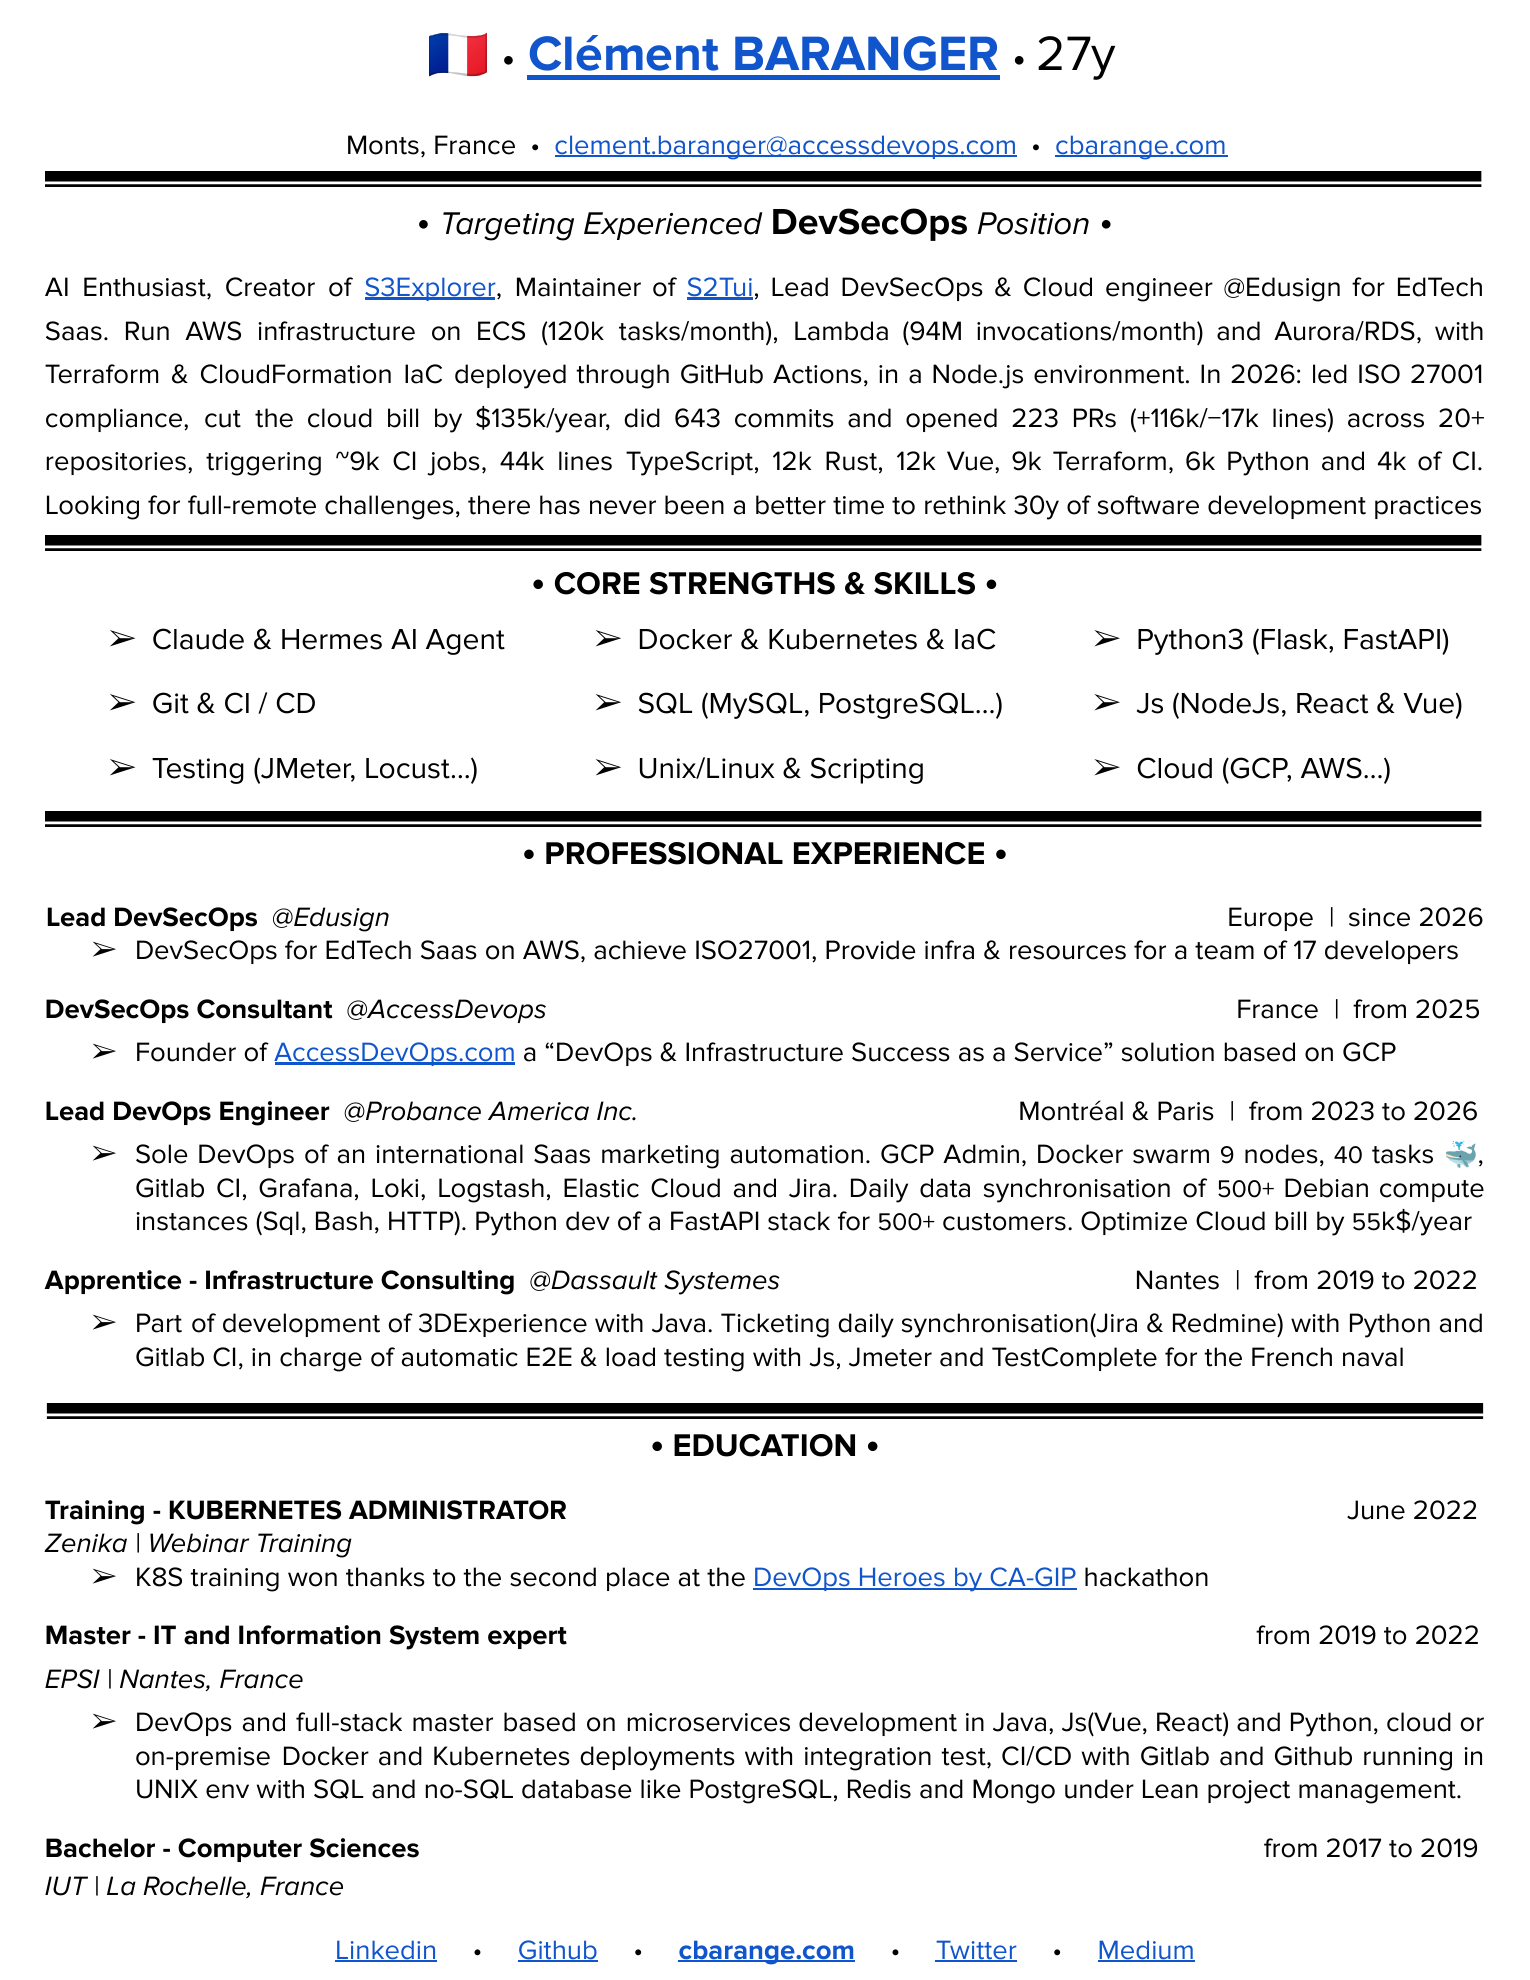
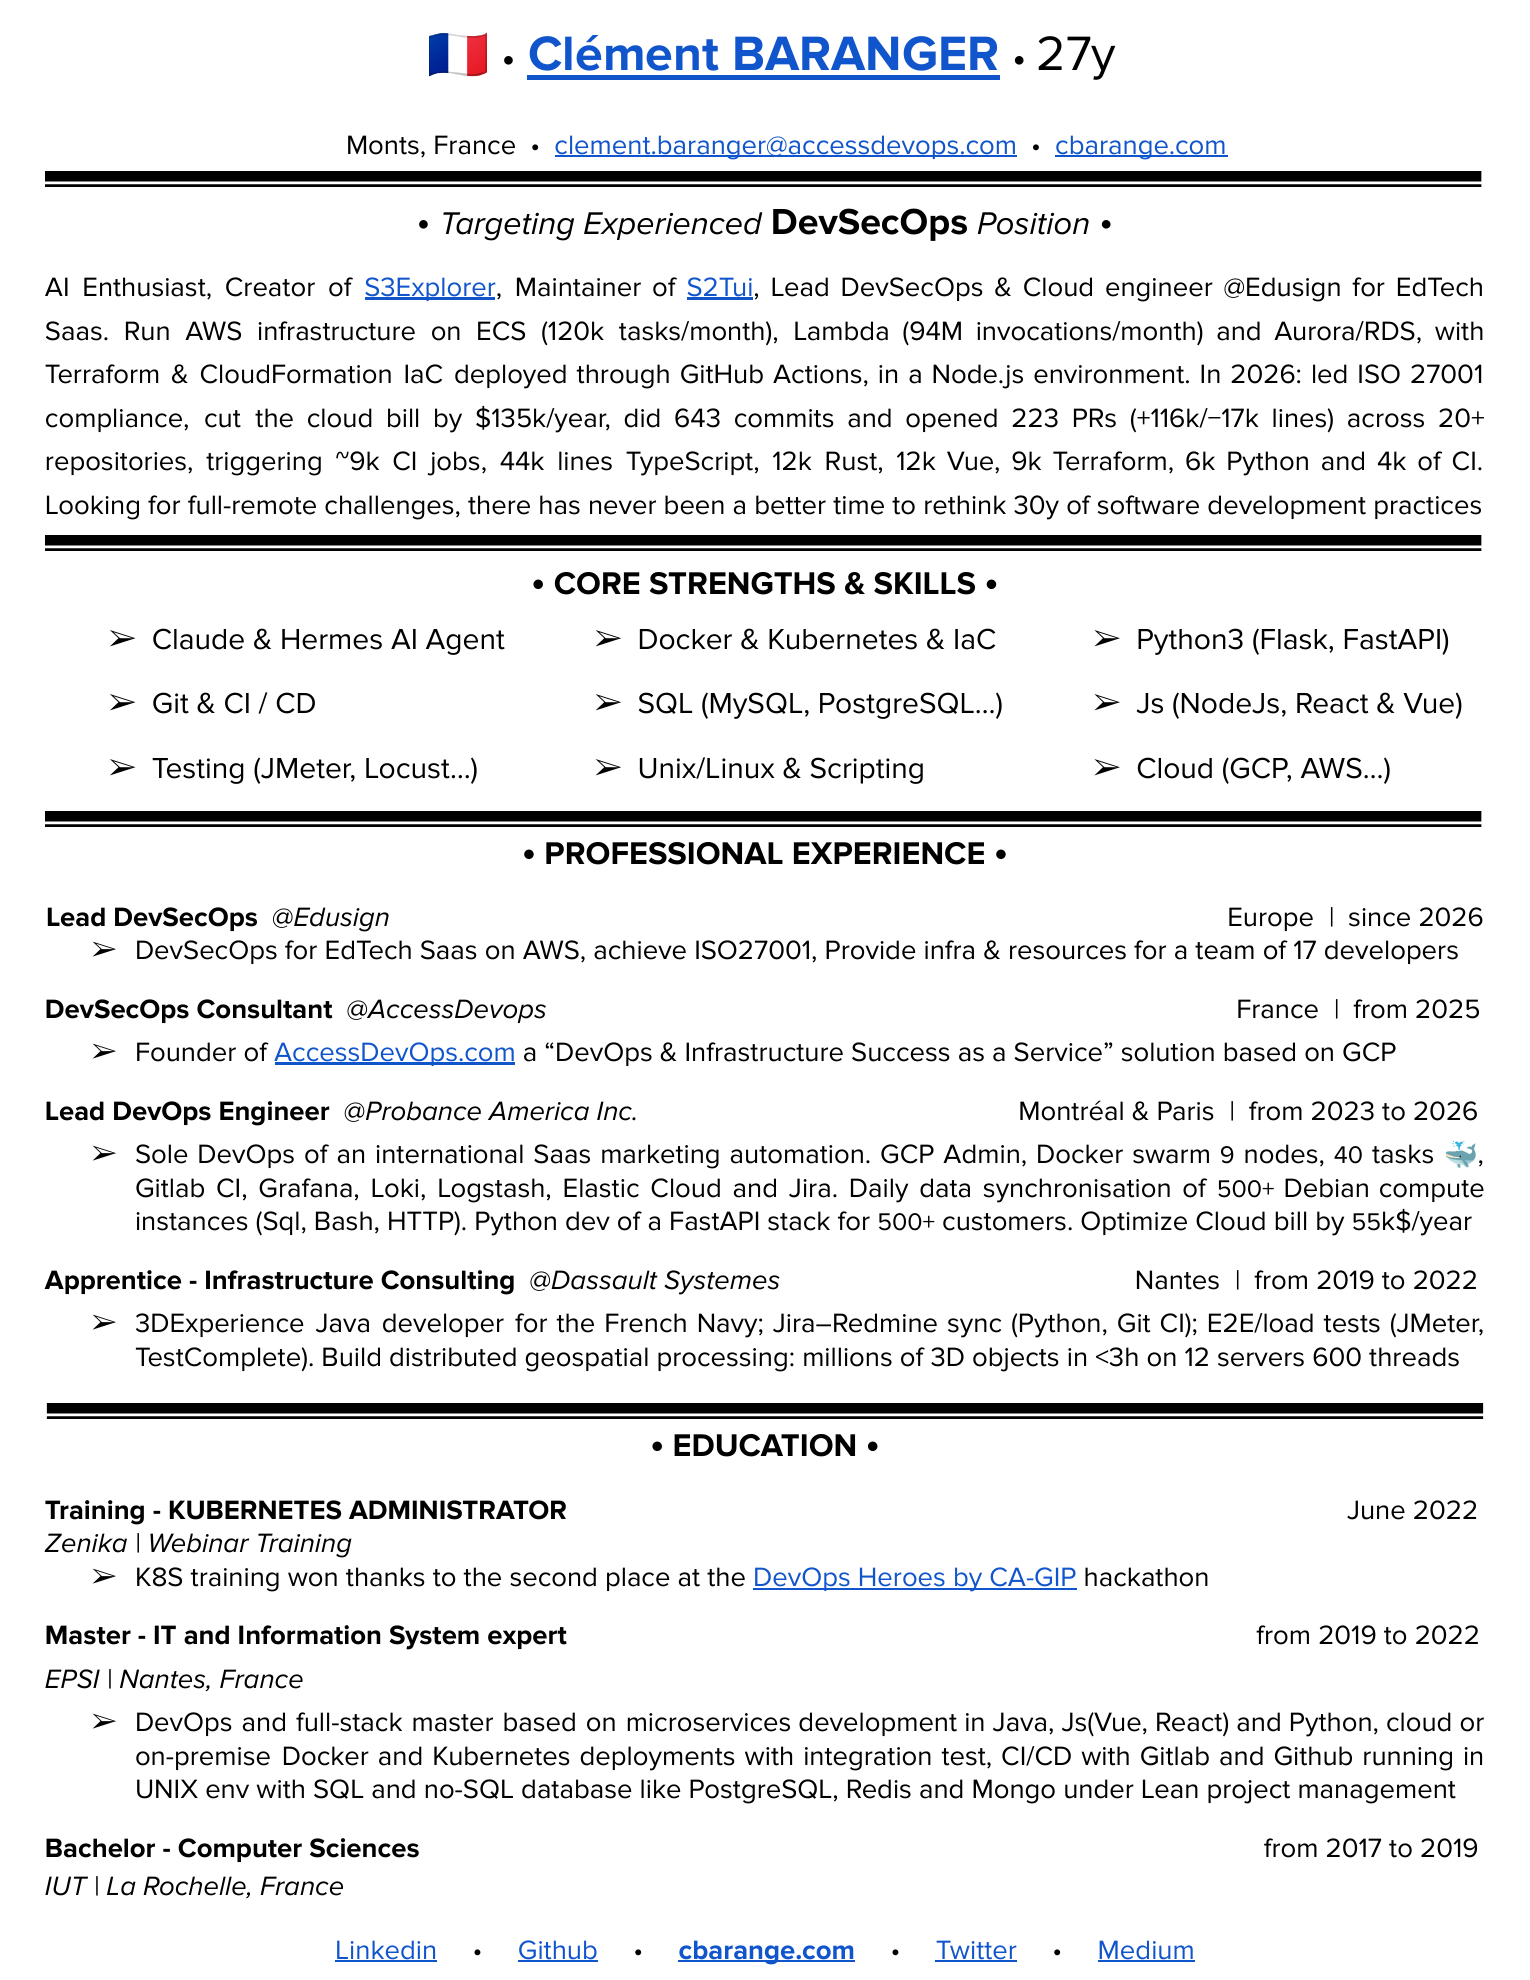
Regenerate the resume preview from the new PDF
The pop-up shows a PNG render, not the PDF, so it still showed the old
resume. PNGs are cached for a day, hence the version query string to
make browsers that saw the old image fetch the new one.

Changed region(s): [[0.0922, 0.647, 0.9523, 0.7086]]

diff --git a/app/components/ResumeButton.vue b/app/components/ResumeButton.vue
@@ -58,7 +58,7 @@
           <div class="min-h-0 overflow-y-auto overscroll-contain bg-white">
             <!-- width/height reserve the page ratio while the image loads -->
             <img
-              src="/resume-preview.png"
+              src="/resume-preview.png?v=2026-11-04"
               width="1530"
               height="1980"
               alt="One-page resume of Clement Baranger, Lead DevSecOps. Download the PDF for the full text and links."
